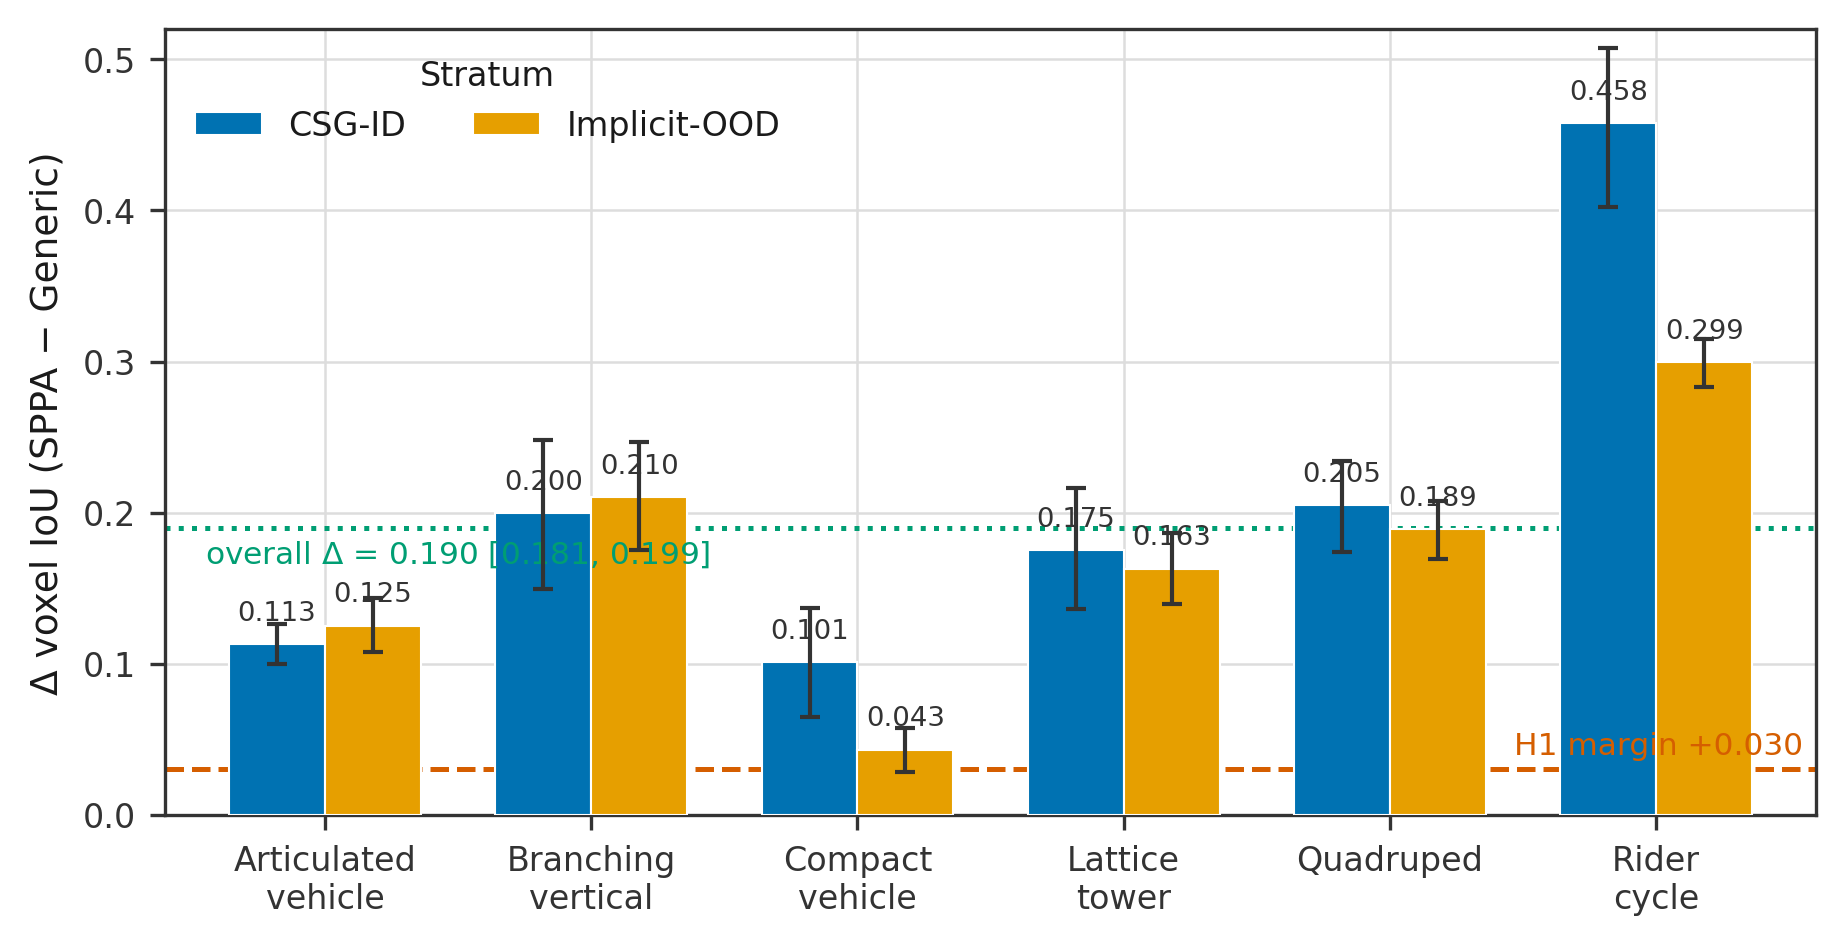
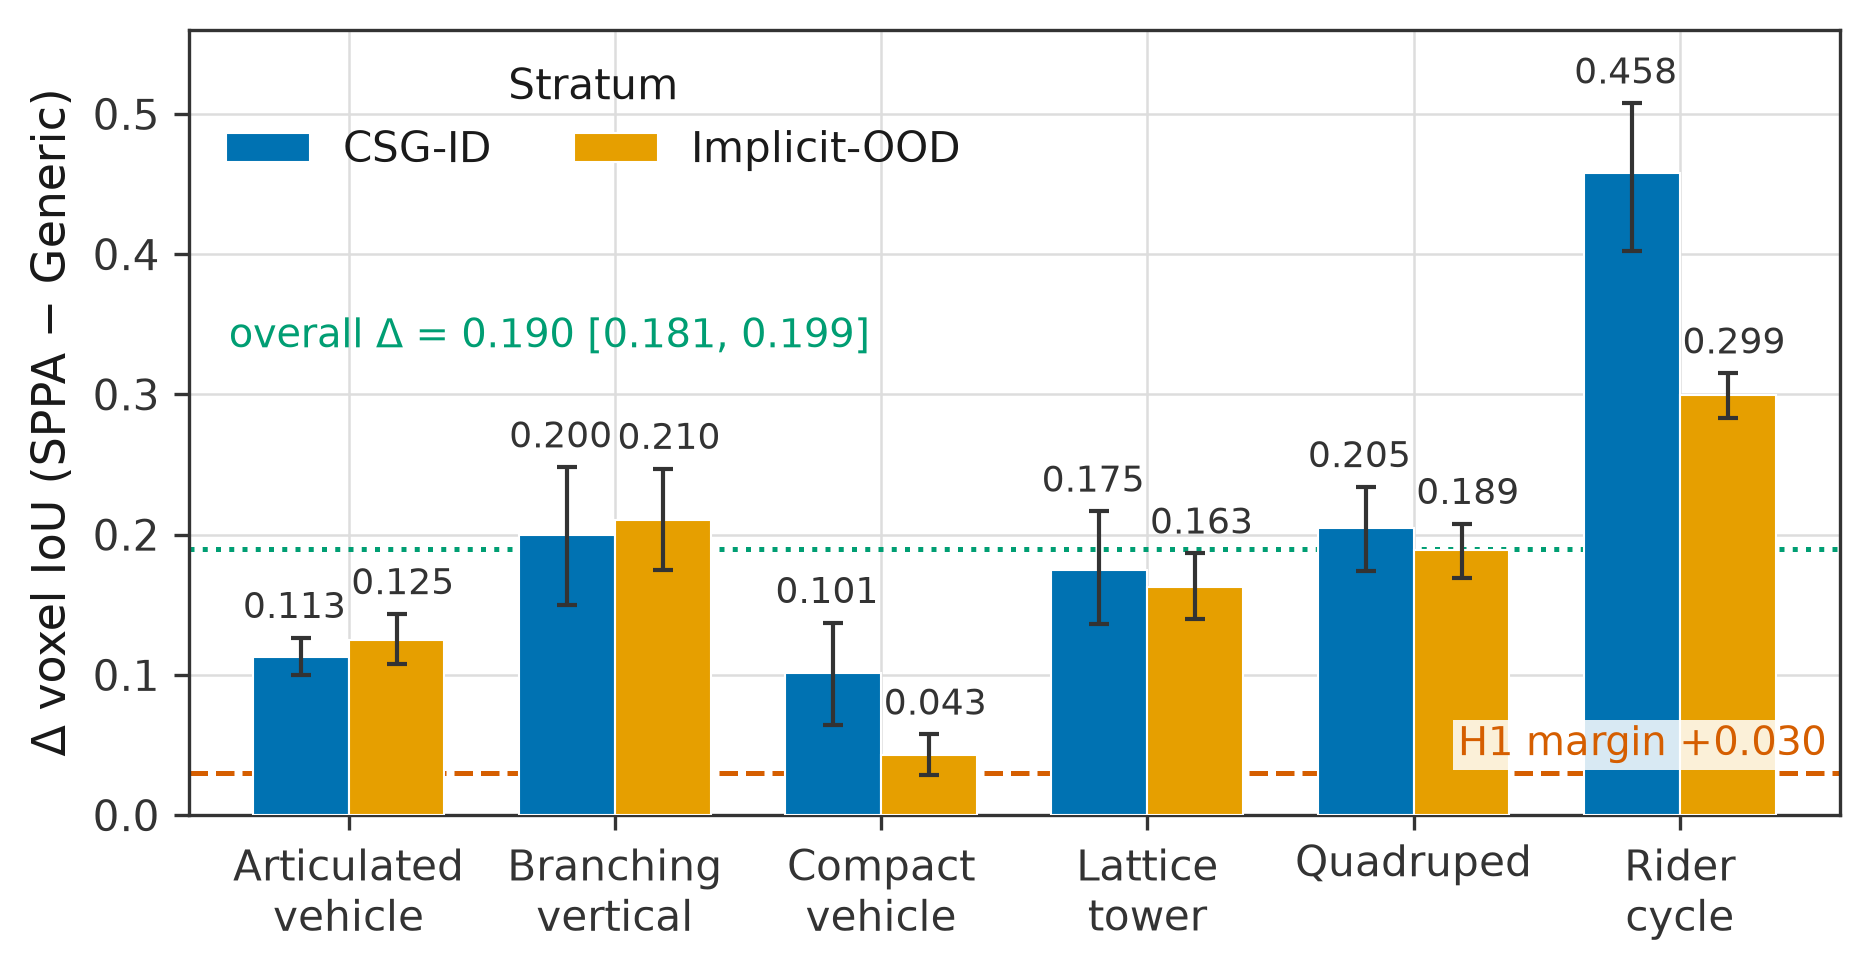
update

diff --git a/main.tex b/main.tex
@@ -20,7 +20,11 @@
 \newcolumntype{L}[1]{>{\raggedright\arraybackslash}p{#1}}
 \newcolumntype{Y}{>{\raggedright\arraybackslash}X}
 
+<<<<<<< Updated upstream
 \title{Real time Semantic Proxy Reconstruction for UAV Digital Twins:\\
+=======
+\title{Real-Time Semantic Proxy Reconstruction for UAV Digital Twins:\\
+>>>>>>> Stashed changes
 Family-Conditioned Part Graphs at Telemetry Bandwidth (SPPA)}
 \author{Authors omitted for review}
 \date{}
@@ -36,9 +40,10 @@ critical delta---a new or relocated tower, vehicles, people, animals near
 the flight path---is exactly what it cannot contain. A video downlink cannot
 close that gap when bandwidth, latency, weather, or darkness degrade it;
 object-level semantic telemetry (detector tags, tracks, footprints, aircraft
-pose) is orders of magnitude cheaper to move, but only pays off if each
-detection becomes displayable 3D geometry instantly, on the same machine
-already running the twin. This paper specifies and validates that missing
+pose) is cheaper to move by a factor of three to six at stream level---and by
+about two orders of magnitude for per-object update messages---but only pays
+off if each detection becomes displayable 3D geometry in real time, on the
+same machine already running the twin. This paper specifies and validates that missing
 display layer, with explicit scope: we address per-object reconstruction and
 update from semantic telemetry; localization is assumed given (the companion
 pipeline measures \(4\)--\(5\)~m end-to-end georeferencing error, so actors
@@ -133,7 +138,8 @@ is not a mesh.
 we state its boundaries before the method, not after it. \emph{Localization
 is assumed given}: position estimation is a separate problem solved by the
 companion pipeline, whose end-to-end detector-to-twin georeferencing error
-was measured at \(4\)--\(5\)~m for targets at \(40\)--\(130\)~m range, so
+was measured at \(4\)--\(5\)~m for targets at \(40\)--\(130\)~m range (companion
+manuscript, under review; anonymized for double-anonymous review), so
 the actors studied here are awareness-grade volumes, not maneuvering-grade
 survey. \emph{The camera is the validated sensor}: LiDAR and night, fog, or
 smoke operation are evaluated only through synthetic corruptions and
@@ -153,7 +159,7 @@ flight video---\(84.0\)\% and \(70.4\)\% lower---and the per-object update
 messages measured in this paper amount to \(25.8\)--\(37.4\)~kB/s of JSON
 traffic. Detection, georeferencing, and the actor lifecycle that deliver
 those messages to the
-twin are validated end to end in a companion manuscript; the
+twin are validated end to end in the same companion manuscript; the
 present paper isolates the layer that pipeline lacks: what should be drawn,
 per detection, inside the twin.
 
@@ -201,7 +207,7 @@ calibrated top and side silhouettes, does the advantage survive the
 corrupted observations that a weak image link implies, and can the system
 itself measure when its prior should not be trusted?
 
-The contribution is \textbf{family-conditioned SPPA}: an instant
+The contribution is \textbf{family-conditioned SPPA}: a real-time
 detection-to-volume path whose semantic prior is validated by a
 preregistered, equal-budget comparison showing that the family graph
 improves clean voxel IoU over a generic eight-part graph by \(0.190\) (95\%
@@ -210,7 +216,7 @@ measured operating envelope that maps where the prior helps, where it hurts,
 and where it stops transferring. The optimizer is deliberately a shared
 five-parameter global alignment and is not claimed as a novel fitting
 algorithm.
-Concretely, the paper contributes: (i)~an instant detection-to-volume
+Concretely, the paper contributes: (i)~a real-time detection-to-volume
 path---a reviewed family recipe compiles one detection into a role-labeled
 eight-part actor in \(9.4\)~ms median CPU per object, emitted as a compact
 \(1.45\)~kB update descriptor, and sustains \(11.8\)~ms median per detection
@@ -341,7 +347,7 @@ Paradigm (representative systems) & Telemetry input & Role labels & In-place upd
 \midrule
 Neural image/text-to-3D (TripoSR, SF3D, SPAR3D, Hunyuan3D-2, TripoSG, TRELLIS.2) & no (image/prompt) & no & no & 0.08--46~s GPU; 1.6k--3.4M tris; 2--16~GB VRAM \\
 Category templates (3DMM, SMPL, SMAL) & no (scans/images) & category-specific & partial & offline fitting \\
-Learned primitive decomposition (SuperDec, DualPrim, superfrusta) & no (image/cloud) & implicit parts & no & GPU inference \\
+Learned primitive decomposition (SuperDec~\cite{fedele2025superdec}, DualPrim~\cite{meng2026dualprim}, superfrusta~\cite{ganeshan2026superfrusta}) & no (image/cloud) & implicit parts & no & GPU inference \\
 Scene graphs (Hydra, 3D DSG) & mapping sensors & object level & yes & mapping layer, not a display actor \\
 LOD / impostors / billboards & no (needs assets) & no & yes & negligible, but asset required \\
 Occupancy maps (OctoMap, voxblox) & depth sensors & no & yes & navigation map, not actors \\
@@ -375,8 +381,8 @@ three cases: an \texttt{exact\_class} label with a fixed archetype; a
 \texttt{keyword\_archetype} mapping of an out-of-template label to a finite
 reviewed archetype, such as vehicle or vertical structure; or a
 \texttt{fallback\_unknown\_label} rendered as a generic uncertainty-aware
-volume. The versioned recipe manifest covers 23 archetypes and 95 exact or
-keyword labels; SPPA can accept an open detector tag at runtime, but the tag is
+volume. The versioned recipe manifest (ONTOLOGY-0.4) routes detector labels into a
+finite set of reviewed archetypes; SPPA can accept an open detector tag at runtime, but the tag is
 normalized into a reviewed family or a conservative unknown fallback before
 geometry is emitted. An adversarial resolver audit over 12 compound or
 misleading labels is included
@@ -468,12 +474,13 @@ implementation uses boxes, cylinders, ellipsoids, cones, and tori
 
 \begin{figure}[!htb]
 \centering
-\includegraphics[width=0.6\linewidth,height=0.32\textheight,keepaspectratio]{figures/fig_family_graphs_blender.png}
-\caption{The six benchmark family part graphs used by SPPA
-(\texttt{compact\_vehicle}, \texttt{articulated\_vehicle}, \texttt{quadruped},
-\texttt{branching\_vertical}, \texttt{lattice\_tower}, \texttt{rider\_cycle}):
-eight primitive slots per family with role-conditioned priors; colors denote
-semantic roles.}
+\includegraphics[width=0.95\linewidth,height=0.5\textheight,keepaspectratio]{figures/fig_family_graphs_blender.png}
+\caption{The six benchmark family part graphs used by SPPA, panels (a)--(f):
+\texttt{compact\_vehicle}, \texttt{articulated\_vehicle}, \texttt{quadruped},
+\texttt{branching\_vertical}, \texttt{lattice\_tower}, \texttt{rider\_cycle}.
+Eight primitive slots per family with role-conditioned priors (individual
+slots may be degenerate or occluded in a given view); colors denote
+semantic roles (bottom legend).}
 \label{fig:family-graphs}
 \end{figure}
 
@@ -486,9 +493,10 @@ count, carrying which role is \emph{knowledge}---authored offline, reviewed,
 regression-tested, and frozen in the recipe; each part's instance position
 and scale is \emph{computation}---derived in real time from the
 evidence-driven dimensions through role coefficients clamped to declared
-ranges (the full anatomy table is in RP). The count is the smallest set that
-covers the family's occupancy modes---alternative decompositions were
-measured and rejected (Section~\ref{sec:generic-sensitivity}).
+ranges (the full anatomy table is in RP). The slot count is fixed at eight by the shared actor interface, so that
+every graph---family or generic---competes at equal capacity; alternative
+generic-graph designs at that count were registered in writing and measured
+(Section~\ref{sec:generic-sensitivity}).
 
 Vehicle adaptation is the clearest implemented case: in the current
 vehicle grammar, cab and wheel dimensions remain bounded by role priors,
@@ -500,7 +508,10 @@ box (synthetic truck check in RP).
 When calibrated top and side silhouettes are available, SPPA refines
 the assembled graph with a single shared parameter vector
 \(\theta=(\log s_x,\log s_y,\log s_z,s_{\mathrm{sec}},o_{\mathrm{sec}})\)
-applied to all eight slots at once, optimizing silhouette agreement over a
+applied to all eight slots at once---\(s_{\mathrm{sec}}\) is a uniform scale
+multiplier on the slots flagged \texttt{secondary} in the graph (e.g.,
+limbs, wheels) and \(o_{\mathrm{sec}}\) an x-axis translation of those slots
+as a fraction of the graph's default extent---, optimizing silhouette agreement over a
 fixed 31-candidate budget (the exact loop is
 Algorithm~1 of Section~\ref{sec:mvfit}). The fit is deliberately global: it
 scales and spans the assembled family graph as one object and never moves
@@ -538,8 +549,9 @@ Every compared method receives the same case identifier, morphology-family
 token, metric world box, and two \(96\times 96\) orthographic binary
 silhouettes (top and side). No method receives RGB pixels, detector scores,
 source parameters, ground-truth occupancy, evaluation projections, or real or
-replay telemetry. An actor is an ordered list of eight primitive slots (boxes,
-cylinders, ellipsoids). Family graphs and a single \texttt{generic} graph are
+replay telemetry. An actor is an ordered list of eight primitive slots; the benchmark
+instantiates the box/cylinder/ellipsoid subset of the implementation's
+primitive types. Family graphs and a single \texttt{generic} graph are
 stored as static JSON. The only builder used by the text-only ablation, the
 Generic graph baseline, and SPPA is
 \begin{equation}
@@ -566,8 +578,11 @@ from the same masks.
 \textbf{Parameters:} \(\theta=(\log s_x,\log s_y,\log s_z,s_{\mathrm{sec}},
 o_{\mathrm{sec}})\), shared by all eight slots.\\
 \textbf{Objective:} \(J(\theta)=0.5\,(1-\mathrm{IoU}_{\mathrm{top}})
-+0.5\,(1-\mathrm{IoU}_{\mathrm{side}})+\varepsilon\cdot\)centering,
-evaluated on the actor's projections against the observed silhouettes.\\[2pt]
++0.5\,(1-\mathrm{IoU}_{\mathrm{side}})+R(\theta)\), with the Tikhonov
+regularizer \(R(\theta)=0.01\sum_{i=1}^{3}(\log s_i)^2
++0.005\,(s_{\mathrm{sec}}-1)^2+0.005\,o_{\mathrm{sec}}^2\) keeping the fit
+near the recipe prior, evaluated on the actor's projections against the
+observed silhouettes.\\[2pt]
 \begin{enumerate}[leftmargin=1.6em,itemsep=0pt,topsep=1pt]
 \item Initialize \(\theta_0\) from the observed mask extents; evaluate
 \(J(\theta_0)\) \hfill(1 evaluation)
@@ -607,14 +622,17 @@ difference. H1 passes only if the lower endpoint of a two-sided 95\% stratified
 actor-bootstrap percentile interval (10{,}000 resamples, seed 77157) exceeds
 \(+0.030\). The margin and the power analysis behind the sample size were fixed
 before evaluation: with paired-difference SD \(0.12\), \(n{=}240\) actors give
-approximately 90\% normal-approximation power to distinguish a true mean of
+approximately 94\% normal-approximation power to distinguish a true mean of
 \(+0.055\) from the \(+0.030\) margin. The full protocol was preregistered
 and sealed before evaluation; the seed provenance, amendment log, and freeze
-records are given in RP. Two amendments to the sealed
-protocol are disclosed: Amendment~03 substituted the planned external review
+records are given in RP. All amendments to the sealed
+protocol are logged in RP; the two affecting inference are disclosed here:
+Amendment~03 substituted the planned external review
 of the protocol (not obtainable) by an internal triple-role self-audit, and
 Amendment~04 re-derived the secondary inference after the seal (null-centered
-bootstrap with Holm adjustment). Development results
+bootstrap with Holm adjustment). Amendment~01, the deduplication of the
+preregistered \texttt{curated\_family\_template} row, is noted in
+Table~\ref{tab:paired-deltas}. Development results
 were used only to implement the frozen package and are not confirmatory.
 
 Source actors come from two strata: CSG-ID unions of solids with family
@@ -628,7 +646,7 @@ Zen~5, 32 logical CPUs, Windows~11, CPython 3.12.6); the external
 neural-generator runs of Section~\ref{sec:neural-external-wave} used an
 RTX~5090 32~GB GPU on the same machine. We state the hardware context
 explicitly because the motivating mission is a portable flight laptop:
-``instant'' throughout this paper is a per-object CPU wall-clock claim at
+``real-time'' throughout this paper is a per-object CPU wall-clock claim at
 this workstation class, not a measured flight-laptop frame time, and
 dense-scene rendering limits are reported separately in
 Section~\ref{sec:deployment-summary}.
@@ -643,7 +661,7 @@ compact rigid bodies (\texttt{compact\_vehicle}), elongated articulated bodies
 branching vertical growth (\texttt{branching\_vertical}), thin lattice
 structures (\texttt{lattice\_tower}), and rider-plus-cycle combinations
 (\texttt{rider\_cycle}). A post-hoc exploratory drop-one-family re-analysis
-(Section~\ref{sec:results-decomposition}) confirms the headline difference is
+(arm \texttt{t5\_drop\_one\_family} in RP) confirms the headline difference is
 not carried by any single family: excluding any one family leaves the paired
 difference between \(0.152\) and \(0.214\), always above the \(+0.030\)
 margin. As an external case study outside the design distribution, the same
@@ -720,7 +738,7 @@ differences of SPPA against every baseline under the same stratified
 bootstrap construction (method means and wall-clock costs in
 RP). SPPA exceeds its text-only ablation (mean
 \(\Delta=0.130\), CI \([0.116,0.144]\); the preregistered
-\texttt{curated\_family\_tem\-plate} row is this identical method,
+\texttt{curated\_family\_template} row is this identical method,
 deduplicated under Amendment~01) and all lightweight geometric baselines. The margin over the
 strongest baseline is much smaller than the headline: the sealed paired
 advantage over the nonsemantic visual hull~\cite{laurentini1994visual} is
@@ -732,8 +750,8 @@ the hull's median (\(0.567\)) exceeds SPPA's (\(0.563\)) while its
 mean (\(0.522\)) is lower---the paired mean
 advantage is carried by a right tail of actors where the eight-part
 contract substantially out-fits the hull. Median single-call descriptive
-SPPA time is \(9.4\)~ms (p95 \(10.6\)~ms), below the secondary
-local-cost gates of 100~ms median / 250~ms p95; under the identical
+SPPA time is \(9.4\)~ms (P95 \(10.6\)~ms), below the secondary
+local-cost gates of 100~ms median / 250~ms P95; under the identical
 31-candidate budget the SPPA median fit (\(9.43\)~ms) is slightly
 lower than Generic graph's (\(11.34\)~ms), a wall-clock difference the
 package records without attributing it to a single cause. A
@@ -752,7 +770,8 @@ bootstrap, 10{,}000 resamples, seed 77157; all deltas sealed in
 \texttt{confirmatory\_summary.json}). Means and medians are recomputed
 read-only from the sealed \texttt{raw\_metrics.csv}. Row labels are display
 aliases for the preregistered protocol arms \texttt{sppa\_mvfit},
-\texttt{sppa\_text\_only}, and \texttt{generic\_mvfit}.}
+\texttt{sppa\_text\_only}, and \texttt{generic\_mvfit}. Deltas are per-actor
+paired means and need not equal differences of the displayed rounded means.}
 \label{tab:paired-deltas}
 \input{benchmarks/results/paired\_deltas\_table.tex}
 \end{table}
@@ -783,8 +802,8 @@ degrades it.
 \footnotesize
 \caption{Robustness of the primary comparison to degraded observations
 (post-hoc analysis of the sealed confirmatory data under the preregistered
-conditions; \(n{=}240\) per condition). Method means and paired differences
-under the five prespecified observation conditions. The prespecified
+conditions; \(n{=}240\) per condition). Method mean voxel IoU and paired
+differences under the five prespecified observation conditions. The prespecified
 \(+0.030\) margin is exceeded under every condition. Per-condition means of
 all eight methods are in RP.}
 \label{tab:robustness-conditions}
@@ -819,7 +838,8 @@ the previously missing cell, the generic
 graph at the default \(\theta_0\), scores \(0.180\). The family graph with no
 fitting at all (\(0.427\)) already exceeds the fully fitted generic
 competitor (\(0.367\)). Fitting adds \(+0.187\) on the generic graph and
-\(+0.130\) (CI \([0.117,0.143]\)) on the family graph, with a negative
+\(+0.130\) (post-hoc bootstrap CI \([0.117,0.143]\); sealed interval
+\([0.116,0.144]\) in Table~\ref{tab:paired-deltas}) on the family graph, with a negative
 interaction (\(-0.058\)). The H1 headline therefore decomposes into a larger
 representation effect---graph effect at no fit \(+0.248\), CI
 \([0.234,0.261]\)---plus a smaller fitting contribution on top of it, and the
@@ -851,8 +871,11 @@ a mismatched family.
 \caption{Wrong-family analysis (clean condition, \(n{=}240\), mean voxel IoU).
 Rows: true family; columns: family token supplied to the fitter. The diagonal
 is the correct token. Off-diagonal cells fall below the diagonal and, with
-few exceptions (the morphologically close vehicle families), also below the
-generic-graph mean of \(0.367\).}
+few exceptions (the two vehicle families under each other's token, and
+vehicle actors fitted with the \texttt{quadruped} token), also below the
+generic-graph mean of \(0.367\); the correct-token \texttt{lattice\_tower}
+diagonal itself sits below that mean, the sub-voxel resolution effect
+discussed in Section~\ref{sec:primary-results}.}
 \label{fig:wrong-family-matrix}
 \end{figure}
 
@@ -996,12 +1019,13 @@ proxy). The tractor photo is mislabeled by the detector as
 \(7.1\times6.0\)~m footprint is fused to \(4.75\times2.50\times2.60\)~m
 (576-triangle proxy). On the same crops and workstation, six measured neural
 generators run at
-their fastest official configurations WITH official background removal
+their fastest official configurations \emph{with} official background removal
 (Figure~\ref{fig:real-flight-probes}):
 SF3D and TRELLIS.2 even recover the tower lattice, but every generator
 costs orders of magnitude more than the SPPA proxies built from the same
 evidence in milliseconds on CPU with no GPU, and Hunyuan3D-2mini
-returns no surface on the two real aerial crops (per-case values
+returns no surface on the tractor flight crop and on the two aerial vehicle
+photo crops (car and tractor+trailer; per-case values
 in RP). Telemetry
 for these replays is declared assumed flight
 (\(45\)/\(35\)~m AGL, nadir camera), not measured, and no 3D ground truth
@@ -1017,7 +1041,7 @@ condenses the runtime evidence (full Unreal/HISM run matrix in RP). Packaged
 replay at 100 synthetic objects passes a
 33.3~ms desktop frame budget but misses 60~FPS; dense shape updates remain the
 limiting factor even under HISM batching, and curated assets remain preferable
-when a matched asset exists (shape-stream P95 \(6.789\)~ms vs.\ \(22.445\)~ms
+when a matched asset exists (shape-stream P95 \(6.8\)~ms vs.\ \(22.4\)~ms
 on the cow/tower subset). The deployment claim is therefore scoped to the
 regime the mission actually presents---sparse field scenes with tens of
 concurrent dynamic objects, 30~FPS-class rendering---not to dense urban
@@ -1073,8 +1097,8 @@ report them in the order a critical reader will check them
 (Table~\ref{tab:real-stream}; Figure~\ref{fig:real-stream}). \emph{First, the
 headline inverts on real evidence.} SPPA does \emph{not} win the only metric
 this stream can score---2D reprojection overlap---against any nonsemantic
-baseline (\(0.298\) median versus \(0.423\) for Generic graph and
-\(0.44\)--\(0.45\) for OBB, visual hull, and capsule), and the oriented box
+baseline (\(0.298\) median versus \(0.330\) for AABB, \(0.423\) for Generic
+graph, and \(0.44\)--\(0.45\) for OBB, visual hull, and capsule), and the oriented box
 does so at \(0.22\)~ms, roughly fifty times cheaper than our \(11.8\)~ms
 fit. We do not explain this away: the monocular height estimate genuinely
 conflicts with the family prior bounds (a \(13.75\)~m tower column versus a
@@ -1095,7 +1119,11 @@ and trust is measurable}: fit latency (\(11.8\)~ms median) stays far below
 the 2--15~Hz stream rate, and the token-validation signals below turn the
 first finding into a measured routing decision. Localization is outside this
 paper's scope: all methods share the same \(\approx\)\(33\)~m median 3D
-error, set by the monocular observation geometry (full analysis in RP).
+error, set by the monocular observation geometry (full analysis in RP). This
+long-range monocular regime is not the operating point of the companion
+pipeline's \(4\)--\(5\)~m end-to-end error, which is measured at
+\(40\)--\(130\)~m range with calibrated geometry; the two figures describe
+different sensing regimes and are not directly comparable.
 
 \paragraph{Token validation and trust-gated routing (post-hoc).}
 The same stream provides a measured token-validation signal (protocol frozen
@@ -1163,7 +1191,7 @@ Capsule & 0.445 [0.422, 0.466] & 1.31 \\
 
 \begin{figure}[!htb]
 \centering
-\includegraphics[width=0.55\linewidth]{figures/fig_real_stream_main.png}
+\includegraphics[width=\linewidth]{figures/fig_real_stream_main.png}
 \caption{Real stream case study, degraded-signal view. (a)~Frame 642
 (tower crop) with
 detector boxes and exact ground-truth anchors reprojected through the same
@@ -1217,7 +1245,10 @@ Section~\ref{sec:real-stream} are the trust signal that should gate such
 refinement, and per-part bounded refinement within role-declared limits is
 the natural next rung of this ladder, left to future work.
 
-\label{sec:threats}Four threats to validity remain binding.
+\subsection{Threats to validity}
+\label{sec:threats}
+
+Four threats to validity remain binding.
 
 \begin{itemize}
 \item \emph{Design and estimand.} The primary comparison is structurally
@@ -1245,7 +1276,7 @@ LiDAR interchangeability and night, fog, or smoke operation are evaluated
 only through the prespecified synthetic corruptions and exploratory
 simulated-twin demonstrations (retained in RP; post-hoc, not confirmatory),
 not measured on hardware or in degraded weather.
-\item \emph{Runtime and stream.} ``Instant'' is per object (millisecond
+\item \emph{Runtime and stream.} ``Real-time'' is per object (millisecond
 median fit, local CPU wall-clock, not flight-laptop frame time); dense
 packaged shape updates do not reach 60~FPS and remain the
 declared limiting factor, and packaged replays are short synthetic streams. The

diff --git a/benchmarks/results/sppa_mvfit_h1_summary.tex b/benchmarks/results/sppa_mvfit_h1_summary.tex
@@ -9,6 +9,6 @@ H1 decision (lower bound $>$ margin) & PASS \\
 Actors (analysis units) & 240 \\
 CSG-ID stratum mean $\Delta$ & 0.209 \\
 Implicit-OOD stratum mean $\Delta$ & 0.172 \\
-Resolution sensitivity 48/64/80 & PASS \\
+Resolution sensitivity 48/64/80 (max $|\Delta\mathrm{change}|$ 0.0094 $<$ 0.015) & PASS \\
 \bottomrule
 \end{tabular}
